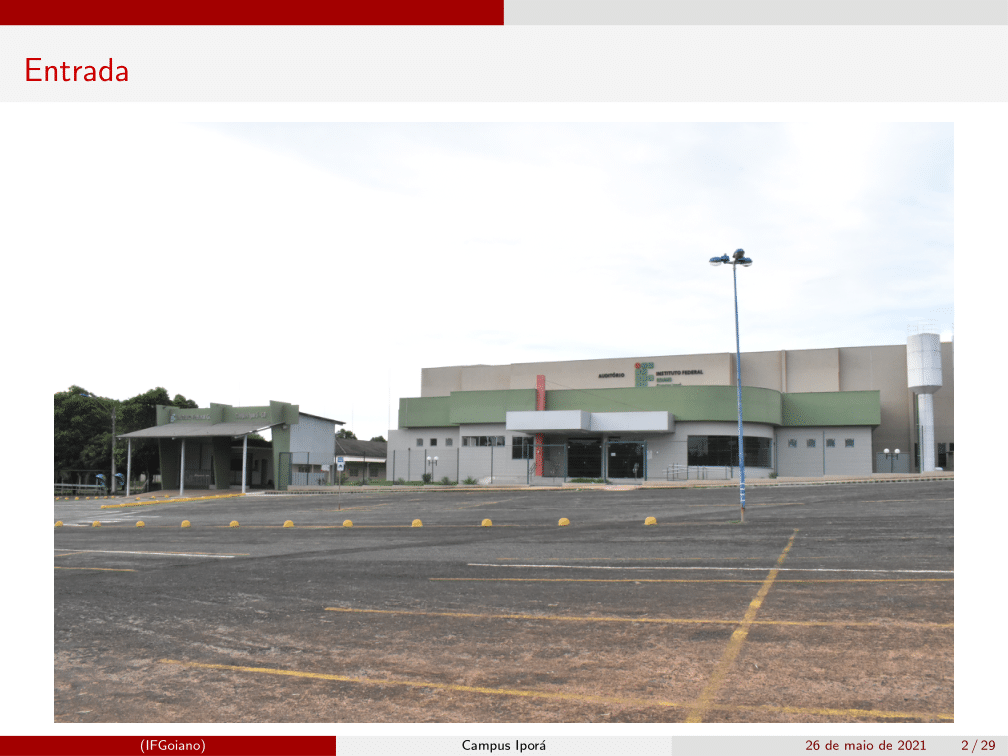
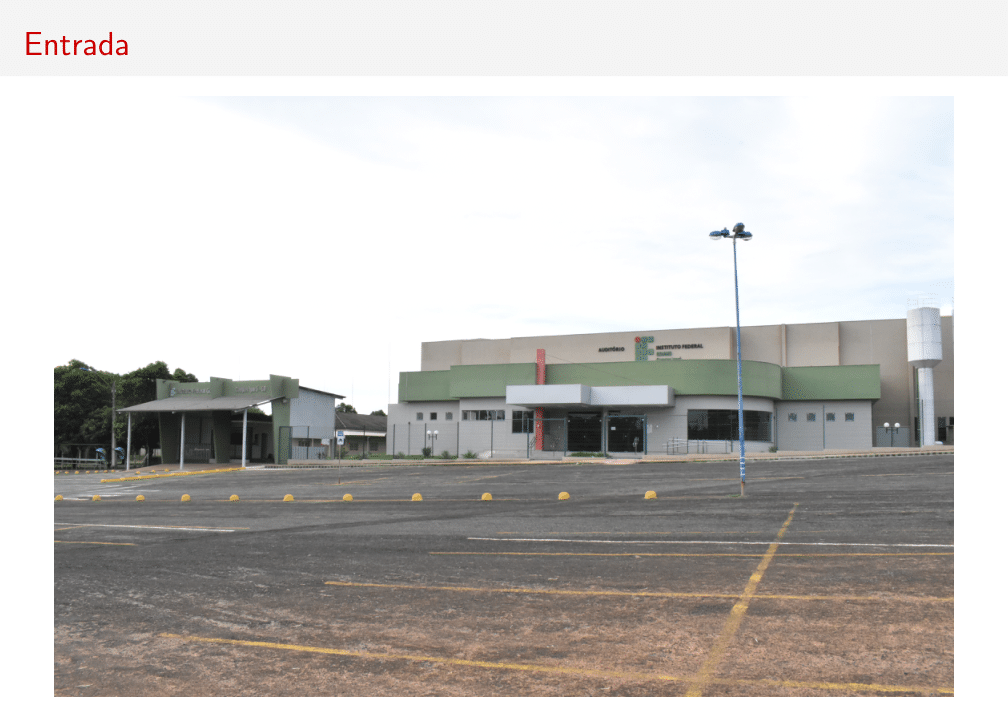
cortei imagens e adicionei tabela

diff --git a/index.html b/index.html
@@ -142,33 +142,33 @@
 
             <div id="carrossel" class="carousel slide lazy" data-ride="carousel">
                 <div class="carousel-inner">
-                    <div class="carousel-item active"><img class="d-block w-100" src="if-imgs\img1.png" alt="First slide"></div>
-                    <div class="carousel-item"><img class="d-block w-100" data-src="if-imgs\img2.png" alt="Second slide"></div>
-                    <div class="carousel-item"><img class="d-block w-100" data-src="if-imgs\img3.png" alt="Third slide"></div>
-                    <div class="carousel-item"><img class="d-block w-100" data-src="if-imgs\img4.png" alt="Third slide"></div>
-                    <div class="carousel-item"><img class="d-block w-100" data-src="if-imgs\img5.png" alt="Third slide"></div>
-                    <div class="carousel-item"><img class="d-block w-100" data-src="if-imgs\img6.png" alt="Third slide"></div>
-                    <div class="carousel-item"><img class="d-block w-100" data-src="if-imgs\img7.png" alt="Third slide"></div>
-                    <div class="carousel-item"><img class="d-block w-100" data-src="if-imgs\img8.png" alt="Third slide"></div>
-                    <div class="carousel-item"><img class="d-block w-100" data-src="if-imgs\img9.png" alt="Third slide"></div>
-                    <div class="carousel-item"><img class="d-block w-100" data-src="if-imgs\img10.png" alt="Third slide"></div>
-                    <div class="carousel-item"><img class="d-block w-100" data-src="if-imgs\img11.png" alt="Third slide"></div>
-                    <div class="carousel-item"><img class="d-block w-100" data-src="if-imgs\img12.png" alt="Third slide"></div>
-                    <div class="carousel-item"><img class="d-block w-100" data-src="if-imgs\img13.png" alt="Third slide"></div>
-                    <div class="carousel-item"><img class="d-block w-100" data-src="if-imgs\img14.png" alt="Third slide"></div>
-                    <div class="carousel-item"><img class="d-block w-100" data-src="if-imgs\img15.png" alt="Third slide"></div>
-                    <div class="carousel-item"><img class="d-block w-100" data-src="if-imgs\img16.png" alt="Third slide"></div>
-                    <div class="carousel-item"><img class="d-block w-100" data-src="if-imgs\img17.png" alt="Third slide"></div>
-                    <div class="carousel-item"><img class="d-block w-100" data-src="if-imgs\img18.png" alt="Third slide"></div>
-                    <div class="carousel-item"><img class="d-block w-100" data-src="if-imgs\img19.png" alt="Third slide"></div>
-                    <div class="carousel-item"><img class="d-block w-100" data-src="if-imgs\img20.png" alt="Third slide"></div>
-                    <div class="carousel-item"><img class="d-block w-100" data-src="if-imgs\img21.png" alt="Third slide"></div>
-                    <div class="carousel-item"><img class="d-block w-100" data-src="if-imgs\img22.png" alt="Third slide"></div>
-                    <div class="carousel-item"><img class="d-block w-100" data-src="if-imgs\img23.png" alt="Third slide"></div>
-                    <div class="carousel-item"><img class="d-block w-100" data-src="if-imgs\img24.png" alt="Third slide"></div>
-                    <div class="carousel-item"><img class="d-block w-100" data-src="if-imgs\img25.png" alt="Third slide"></div>
-                    <div class="carousel-item"><img class="d-block w-100" data-src="if-imgs\img26.png" alt="Third slide"></div>
-                    <div class="carousel-item"><img class="d-block w-100" data-src="if-imgs\img27.png" alt="Third slide"></div>
+                    <div class="carousel-item active"><img class="d-block mx-auto" src="if-imgs\img1.png" alt="First slide"></div>
+                    <div class="carousel-item"><img class="d-block mx-auto" data-src="if-imgs\img2.png" alt="Second slide"></div>
+                    <div class="carousel-item"><img class="d-block mx-auto" data-src="if-imgs\img3.png" alt="Third slide"></div>
+                    <div class="carousel-item"><img class="d-block mx-auto" data-src="if-imgs\img4.png" alt="Third slide"></div>
+                    <div class="carousel-item"><img class="d-block mx-auto" data-src="if-imgs\img5.png" alt="Third slide"></div>
+                    <div class="carousel-item"><img class="d-block mx-auto" data-src="if-imgs\img6.png" alt="Third slide"></div>
+                    <div class="carousel-item"><img class="d-block mx-auto" data-src="if-imgs\img7.png" alt="Third slide"></div>
+                    <div class="carousel-item"><img class="d-block mx-auto" data-src="if-imgs\img8.png" alt="Third slide"></div>
+                    <div class="carousel-item"><img class="d-block mx-auto" data-src="if-imgs\img9.png" alt="Third slide"></div>
+                    <div class="carousel-item"><img class="d-block mx-auto" data-src="if-imgs\img10.png" alt="Third slide"></div>
+                    <div class="carousel-item"><img class="d-block mx-auto" data-src="if-imgs\img11.png" alt="Third slide"></div>
+                    <div class="carousel-item"><img class="d-block mx-auto" data-src="if-imgs\img12.png" alt="Third slide"></div>
+                    <div class="carousel-item"><img class="d-block mx-auto" data-src="if-imgs\img13.png" alt="Third slide"></div>
+                    <div class="carousel-item"><img class="d-block mx-auto" data-src="if-imgs\img14.png" alt="Third slide"></div>
+                    <div class="carousel-item"><img class="d-block mx-auto" data-src="if-imgs\img15.png" alt="Third slide"></div>
+                    <div class="carousel-item"><img class="d-block mx-auto" data-src="if-imgs\img16.png" alt="Third slide"></div>
+                    <div class="carousel-item"><img class="d-block mx-auto" data-src="if-imgs\img17.png" alt="Third slide"></div>
+                    <div class="carousel-item"><img class="d-block mx-auto" data-src="if-imgs\img18.png" alt="Third slide"></div>
+                    <div class="carousel-item"><img class="d-block mx-auto" data-src="if-imgs\img19.png" alt="Third slide"></div>
+                    <div class="carousel-item"><img class="d-block mx-auto" data-src="if-imgs\img20.png" alt="Third slide"></div>
+                    <div class="carousel-item"><img class="d-block mx-auto" data-src="if-imgs\img21.png" alt="Third slide"></div>
+                    <div class="carousel-item"><img class="d-block mx-auto" data-src="if-imgs\img22.png" alt="Third slide"></div>
+                    <div class="carousel-item"><img class="d-block mx-auto" data-src="if-imgs\img23.png" alt="Third slide"></div>
+                    <div class="carousel-item"><img class="d-block mx-auto" data-src="if-imgs\img24.png" alt="Third slide"></div>
+                    <div class="carousel-item"><img class="d-block mx-auto" data-src="if-imgs\img25.png" alt="Third slide"></div>
+                    <div class="carousel-item"><img class="d-block mx-auto" data-src="if-imgs\img26.png" alt="Third slide"></div>
+                    <div class="carousel-item"><img class="d-block h-75 mx-auto" data-src="if-imgs\img27.png" alt="Third slide"></div>
                 </div>
                 <a class="carousel-control-prev" href="#carrossel" role="button" data-slide="prev">
                     <span class="carousel-control-prev-icon" aria-hidden="true"></span>
@@ -195,7 +195,7 @@
         </div>
       </div>
     </section>
-<!-- if-imgs\IFGoiano-Iporá-2-16-03.png -->
+
     <section class="gincanas" id="gincana">
       <div class="container">
         <div class="row">
@@ -254,17 +254,12 @@
                 <li>Tirar foto com o filtro com nome do curso e marcar o @ifgoianocampusipora - 2 pontos (limite de
                   uma foto por integrante do grupo) - O filtro pode ser encontrado na parte específica no instagram do
                   campus</li>
-                <li>Tirar foto com toda a equipe, colocar o nome da equipe e marcar o @ifgoianocampusipora - 3 pontos
-                  (limite de uma foto por integrante do grupo)</li>
+                <li>Tirar foto com toda a equipe, colocar o nome da equipe e marcar o @ifgoianocampusipora - 7 pontos (limite de uma foto por equipe)</li>
                 <li>Postar um vídeo curto falando sobre a experiência dos primeiros dias do IF Goiano - Campus Iporá e
                   marcar o @ifgoianocampusipora - 3 pontos (limite de uma postagem por integrante do grupo)</li>
               </ul>
               <p> <b>ATENÇÃO</b> </p>
-              <p>Só serão aceitas 3 postagens por dia. Os grupos devem traçar uma estratégia de postagens ao longo dos
-                dias para não postarem além das 3 diárias e perderem pontos. As postagens contabilizadas no dia serão
-                aquelas que forem realizadas primeiro e marcarem o @ifgoianocampusipora. Além disso, as fotos tiradas
-                dentro do IF Goiano - Campus Iporá só serão válidas se todos estiverem com máscara na postagem. O
-                quadro de pontuação diário será enviado aos alunos pelos grupos no WhatsApp.</p>
+              <p>A comissão organizadora repostará os conteúdos no instagram oficial do campus e contabilizará no máximo 3 postagens por equipe, por dia, portanto, cabe aos integrantes de cada grupo traçar uma estratégia de postagens ao longo dos dias e não postarem tudo em um dia só. As postagens contabilizadas no dia serão aquelas que forem realizadas primeiro e que marcarem o @ifgoianocampusipora. Todas as fotos tiradas dentro do IFGoiano - Campus Iporá só serão validadas para efeito de contagem de pontos se todos estiverem com máscara na postagem. O quadro de pontuação será atualizado a cada dia e enviado aos alunos pelos grupos no WhatsApp.</p>
             </div>
 
             <div class="gincana">
@@ -320,6 +315,85 @@
             <p> <strong>Anteção:</strong> no caso de algum problema não previsto por nosso regulamento, a comissão se
               encarregará de decidir como proceder.</p>
           </div>
+
+          <table border="1">
+          <thead>
+            <tr>
+              <th colspan="4">Tabela de Pontuações</th>
+            </tr>
+          </thead>
+          <tbody>
+            <tr>
+              <td>Prova</td>
+              <td>Data</td>
+              <td>Pontuação</td>
+              <td>Pontuação máxima</td>
+            </tr>
+            <tr>
+              <td rowspan="3">Quem é quem?</td>
+              <td rowspan="3">07/03/2022</td>
+              <td>1º Lugar - 10 pontos</td>
+              <td rowspan="3">10 pontos</td>
+            </tr>
+            <tr>
+              <td>2º Lugar - 7 pontos</td>
+            </tr>
+            <tr>
+              <td>3º Lugar - 5 pontos</td>
+            </tr>
+            <tr>
+              <td rowspan="3">Dinâmica dos 3</td>
+              <td rowspan="3">14/03/2022</td>
+              <td>1º Lugar - 10 pontos</td>
+              <td rowspan="3">10 pontos</td>
+            </tr>
+            <tr>
+              <td>2º Lugar - 7 pontos</td>
+            </tr>
+            <tr>
+              <td>3º Lugar - 5 pontos</td>
+            </tr>
+            <tr>
+              <td rowspan="3">Caça ao tesouro</td>
+              <td rowspan="3">14/03/2022</td>
+              <td>1º Lugar - 20 pontos</td>
+              <td rowspan="3">20 pontos</td>
+            </tr>
+            <tr>
+              <td>2º Lugar - 15 pontos</td>
+            </tr>
+            <tr>
+              <td>3º Lugar - 10 pontos</td>
+            </tr>
+            <tr>
+              <td rowspan="3">Kahoot</td>
+              <td rowspan="3">14/03/2022</td>
+              <td>1º Lugar - 15 pontos</td>
+              <td rowspan="3">15 pontos</td>
+            </tr>
+            <tr>
+              <td>2º Lugar - 10 pontos</td>
+            </tr>
+            <tr>
+              <td>3º Lugar - 5 pontos</td>
+            </tr>
+            <tr>
+              <td rowspan="4">Postagens</td>
+              <td rowspan="4">07/03/2022 a 11/03/2022</td>
+              <td>Foto só e sem filtro-1 ponto/foto</td>
+              <td rowspan="4">45 pontos</td>
+            </tr>
+            <tr>
+              <td>Foto só e com filtro - 2 pontos/foto</td>
+            </tr>
+            <tr>
+              <td>Vídeo curto - 3 pontos/foto</td>
+            </tr>
+            <tr>
+              <td>Foto da equipe - 7 pontos/foto</td>
+            </tr>
+          </tbody>
+          </table>
 
         </div>
       </div>

diff --git a/custom.css b/custom.css
@@ -47,3 +47,15 @@ header h3 {
 .gincanas {
   background-color: #f4c2c2;
 }
+
+@media screen and (min-width: 1000px) {
+  .carousel-item img {
+    width: 80%;
+  }
+}
+
+@media screen and (max-width: 999px) {
+  .carousel-item img {
+    width: 100%;
+  }
+}

diff --git a/if-imgs/muda_nome.py b/if-imgs/muda_nome.py
@@ -1,12 +1,11 @@
+from PIL import Image
 import os
 
 path = os.getcwd()
 
-i = 0
-for file in os.listdir(path):
-    if file[-2:] != 'py':
-        i+=1
+l, t, r, b = 0, 26, 1008, 731
 
-        nome = "img" + str(i) + ".png"
-        print(nome)
-        os.rename(file, nome)
+for i in range(1,28):
+    im = Image.open(f"{os.getcwd()}\\img{i}.png")
+    im1 = im.crop((l, t, r, b))
+    im1.save(f"img{i}.png")
